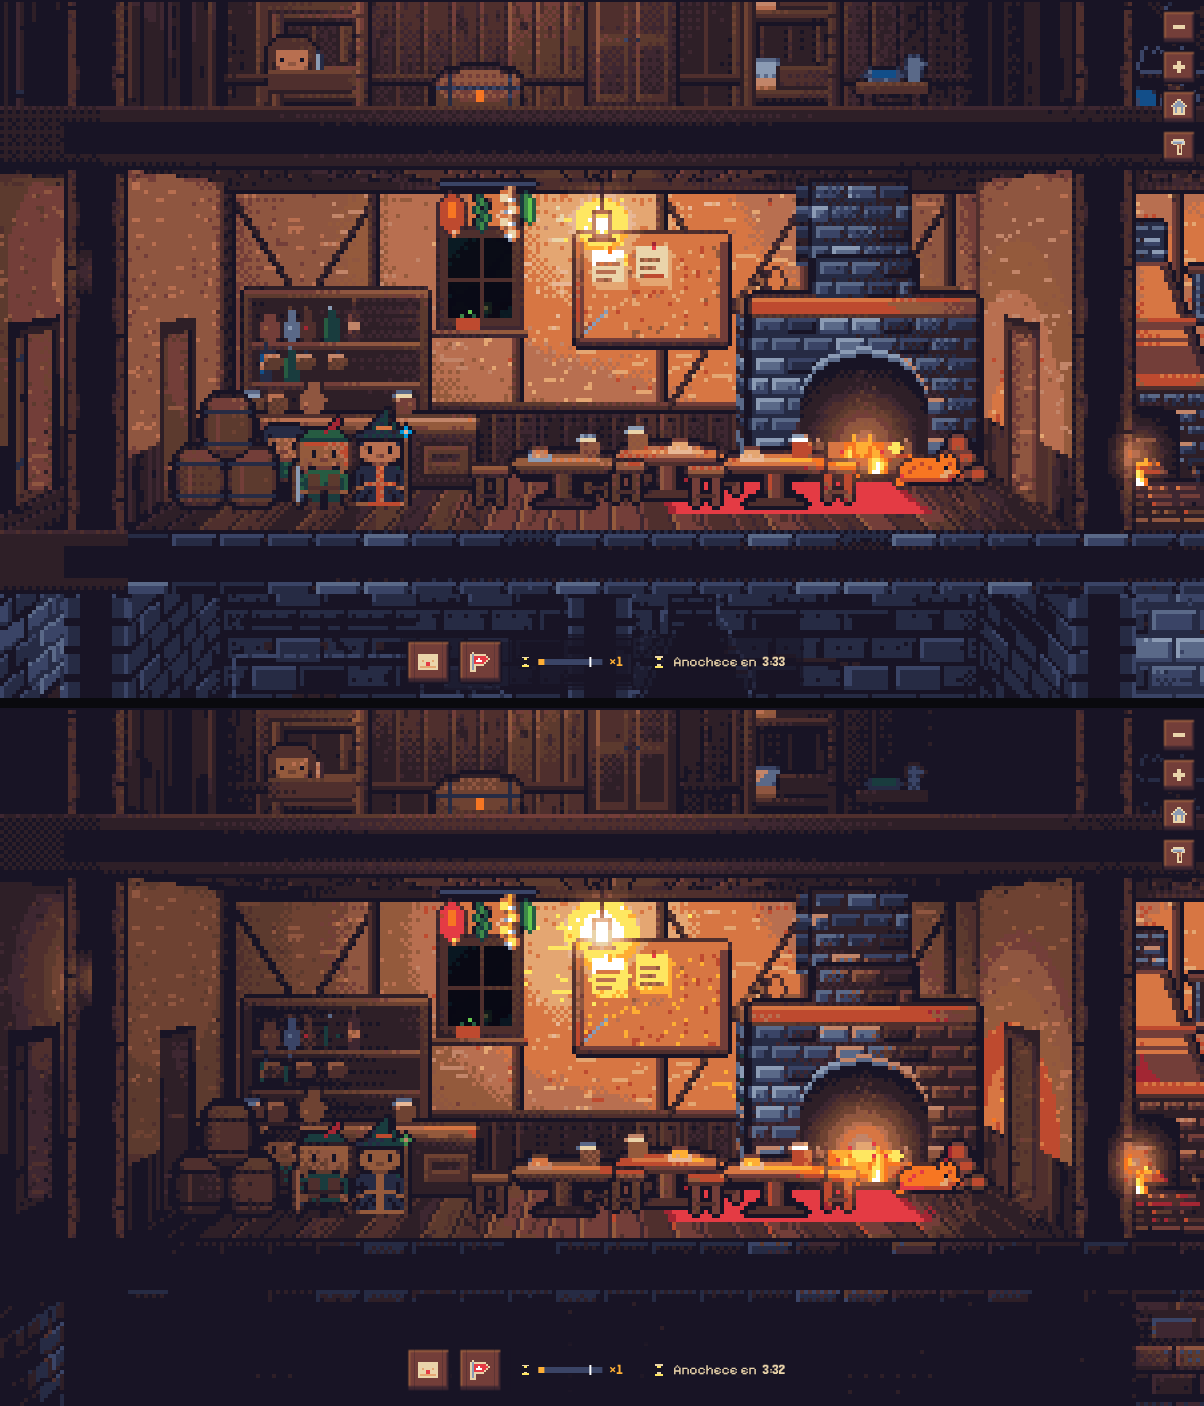
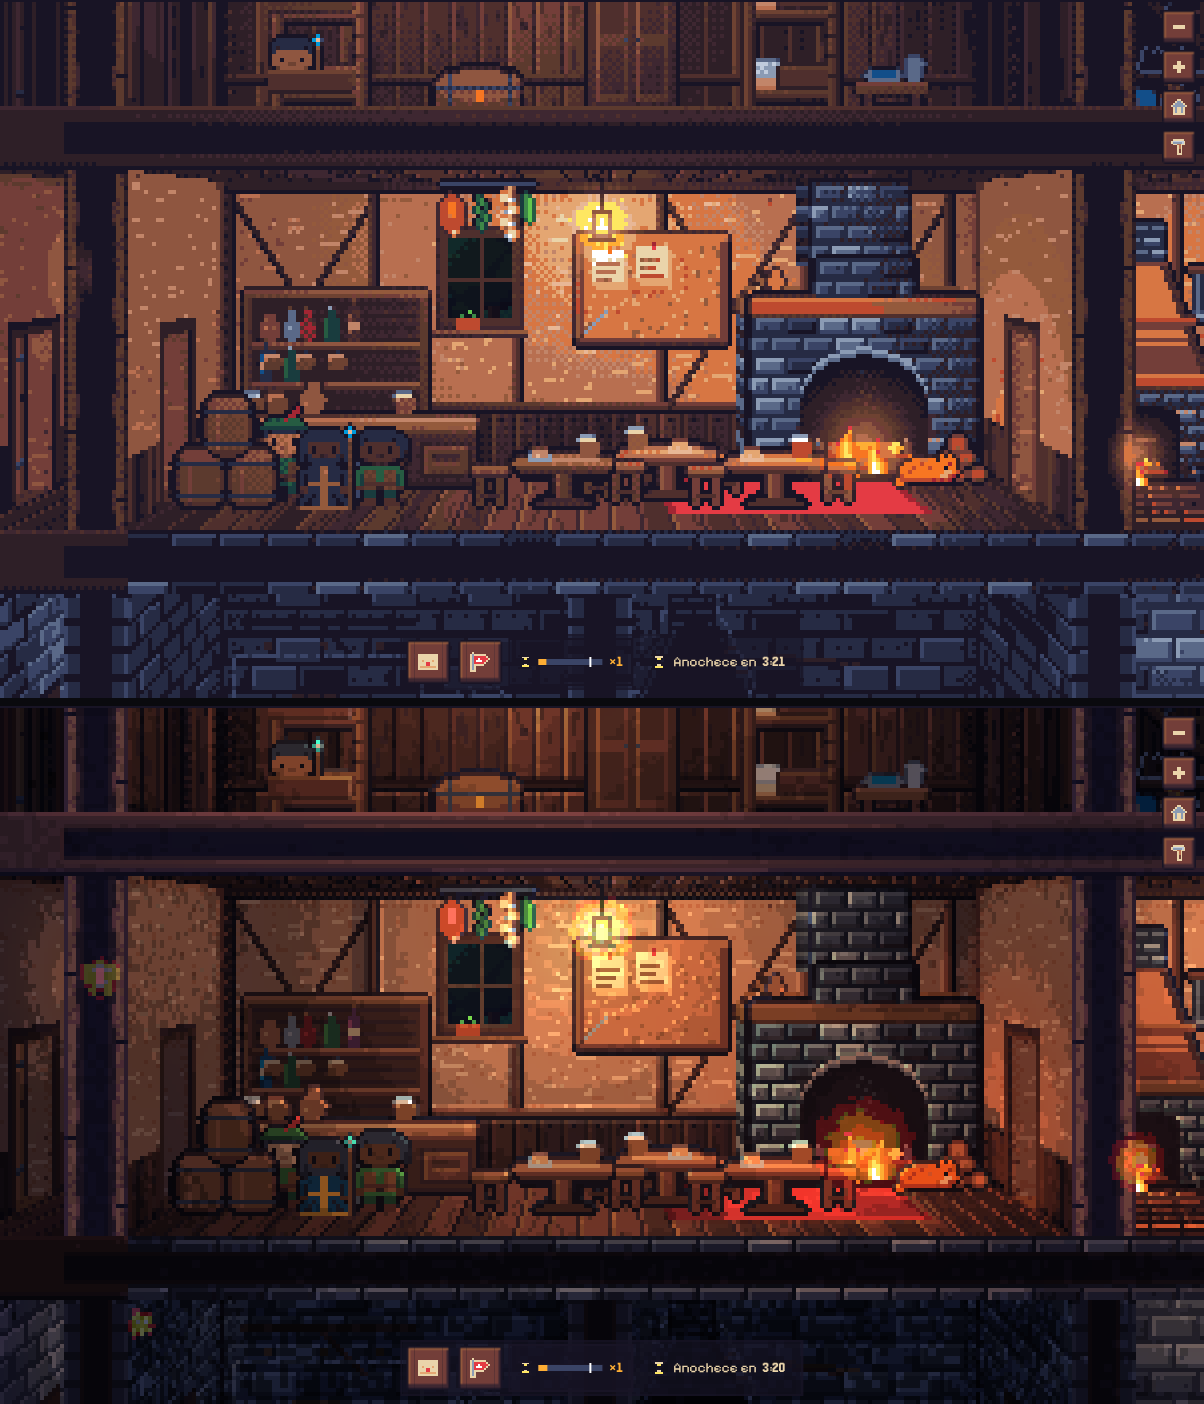
Plan de luz al día y capturas de las fases 1, 2 y 3
docs/plan-luz.md cuenta lo hecho esta noche y lo que falta; las capturas de
docs/capturas/luz-ambiente/ pasan a ser taberna y salón por la mañana, por la
tarde y de noche (arriba la luz de siempre, abajo con el ajuste) y la fachada.

Claude-Session: https://claude.ai/code/session_014SpyiNw8xcPCkBhD81BYzV

diff --git a/docs/plan-luz.md b/docs/plan-luz.md
@@ -5,8 +5,8 @@ el juego, «sea con shaders o como sea». La fachada es lo que menos encaja hoy.
 
 ## Dónde estamos
 
-- Hecho (PR #118): ajuste «Luz con ambiente» (salas a ×0,45 de luz de fondo y focos a ×1,6;
-  las rotas, oscuras) y el halo de los focos ya no atraviesa los forjados.
+- Hecho (PR #118): ajuste «Luz con ambiente» (salas a ×0,45 de luz de fondo y focos a ×1,6) y
+  el halo de los focos ya no atraviesa los forjados. En el #119, las rotas también oscuras.
 - Probado y apagado: sombras en espacio de pantalla y luz de borde (`lit` en `gl.ts`). Funcionan
   a medias: las piezas son planos finos pegados a la pared y la sombra apenas se ve; el fuego,
   metido en el hogar, oscurece de más.
@@ -29,18 +29,31 @@ juego, sin depender de la profundidad de pantalla (y sin sus fallos):
   borde de luz donde el relieve cae del lado del sol.
 - Sin relieve (lo que aún no lo tenga), la superficie se ve como hoy.
 
-## Hecho de la fase 1 (primer paso)
+## Hecho (PR #119, todo dentro de «Luz con ambiente»; sin el ajuste, el juego como antes)
 
-- `PixelBuffer` con relieve (`relief`, pintado con `level`); lo pintan las tablas, el entramado y
-  la sillería (`muros.ts`) y el hastial (alero, óculo, jardinera) en `textures.ts`, y viaja al
-  corte de la fachada.
-- En el shader (`sunlight` en `gl.ts`), con «Luz con ambiente»: sol con dirección por hora
-  (`uSunDir`: sale por la derecha, se pone por la izquierda), normal del relieve, sombra
-  arrojada marchando por la textura y borde de luz; cara al sol dorada, sombra violácea.
-- Se nota en el hastial (tapajuntas con luz y sombra, la sombra del alero), pero aún no da la
-  luz dorada de las pruebas: la paleta Endesga se come los matices (fase 2) y faltan tejados,
-  chimeneas, muros en corte y los lados con relieve. Capturas:
-  `capturas/luz-ambiente/fachada-relieve.png`.
+Capturas en `capturas/luz-ambiente/` (`<hora>-taberna.png`, `<hora>-salon.png`: arriba la luz de
+siempre, abajo con el ajuste; `fachada.png`: mañana y tarde), con `tools/shots/luz.mjs`.
+
+- **Fase 1 (fachada).** `PixelBuffer` con relieve (`relief`, pintado con `level`: lo de encima
+  tapa lo de debajo). Lo pintan las tablas, el entramado y la sillería (`muros.ts`), las cinco
+  paredes de `materiales.ts`, las vigas, postes, tablas y sillares de `paint.ts` (también dentro),
+  las tejas (`roofRelief` en `fachada.ts`) y el hastial (alero, óculo, jardinera). En el shader
+  (`sunlight` y `reliefShadow` en `gl.ts`): sol con dirección por hora (`uSunDir`: sale por la
+  derecha, se pone por la izquierda), normal del relieve, sombra arrojada marchando por la
+  textura, borde de luz en los cantos que dan al sol; cara al sol cálida (naranja intenso a la
+  hora dorada) y sombra violácea. De noche, la luz de cada sala alcanza el grueso del muro en
+  corte que la rodea (`uZonePad`).
+- **Fase 2 (color).** Sin paleta Endesga ni trama en cuadrícula (`uBands`): la intensidad de la
+  luz en siete escalones con el borde mellado en grumos de 2 téxeles fijos a la superficie, el
+  halo en cinco anillos y el color pintado algo menos saturado.
+- **Fase 3 (dentro, primeros pasos).** El relieve también con los 8 focos más cercanos al centro
+  de la vista (sillares de la chimenea, vigas). Luz que entra por cada ventana (`takeWindows` en
+  `textures.ts`): un foco del color del día delante de ella, lleno de día, dorado al atardecer y
+  apagado de noche; el día que llegaba igual a toda la sala baja al ×0,45. Luz de borde de los
+  focos en la gente.
+
+Lo que falta: relieve en chimeneas, rótulo, faroles y muebles (son figuras aparte); el rayo de sol
+visible en el aire con polvo; el fondo (fase 4); medir el rendimiento en un móvil de verdad.
 
 ## Fases (cada una, un PR con capturas antes y después, dentro de «Luz con ambiente»)
 

diff --git a/docs/salas/README.md b/docs/salas/README.md
@@ -131,7 +131,9 @@ La lista completa de pendientes e ideas (bucle, monetización, amigos, torneos, 
   `art/heroes/look.ts`); en el retrato usan la de un héroe parecido.
 - **Luz con ambiente** (Ajustes › Imagen, `moodLight`): la luz de fondo de las salas por
   `MOOD_AMBIENT` y los focos por `MOOD_LAMPS`, en `RoomScene.ts`; así quedan charcos de luz (las
-  rotas, más oscuras: lo quiere así el usuario). Sin marcar, la de siempre. El halo de los focos solo se pinta dentro
+  rotas, más oscuras: lo quiere así el usuario). Además, con el ajuste: relieve en las texturas
+  con sol por hora, color sin paleta ni trama y luz por las ventanas (ver
+  [`../plan-luz.md`](../plan-luz.md)). Sin marcar, la de siempre. El halo de los focos solo se pinta dentro
   de la sala: antes asomaba por los forjados. En la
   misma pasada hay una prueba de sombras y luz de borde (`lit` en `gl.ts`), apagada: se enciende
   desde la consola (`window.__shadows`, `__dbg`); ver [`../estilo-cnc.md`](../estilo-cnc.md).
